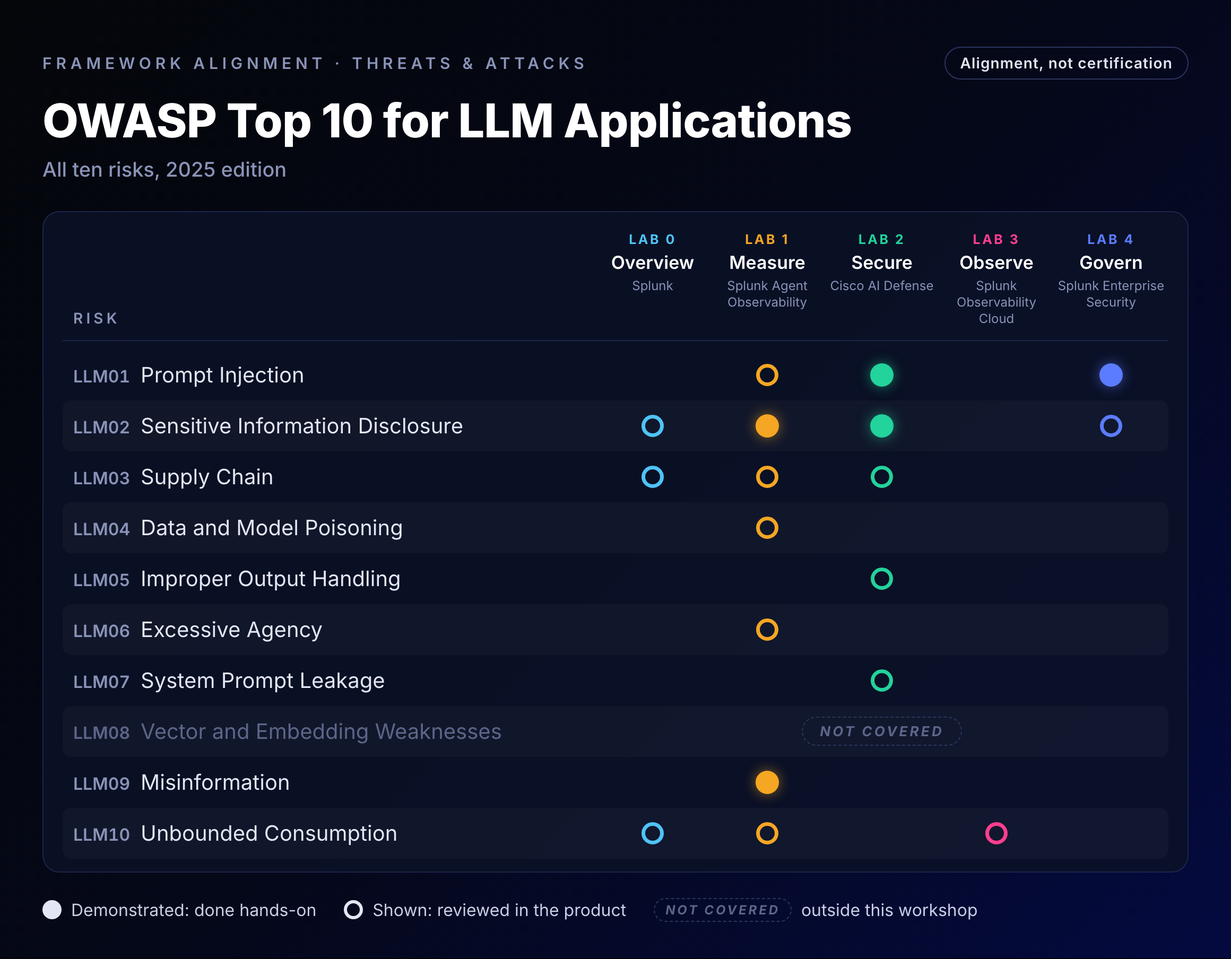
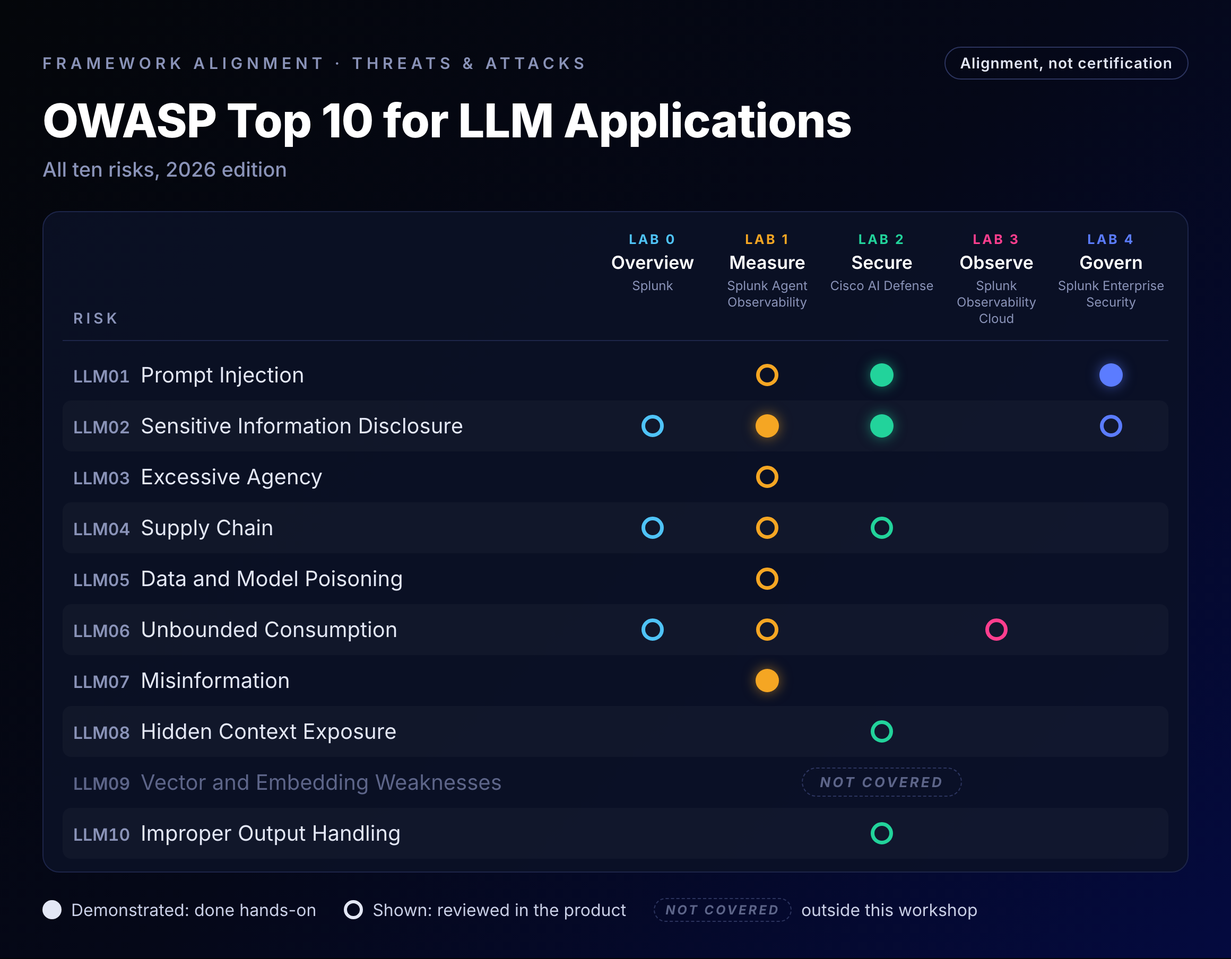
Framework Alignment: move OWASP rows to the LLM Top 10 2026 edition
OWASP published the 2026 edition of the Top 10 for LLM Applications on
2026-08-04. Both Framework Alignment pages (AI Trust and Open Weights)
were still pinned to 2025.

- Renumber, rename and reorder the OWASP rows to the 2026 list. LLM01
  and LLM02 keep their IDs; Excessive Agency is now LLM03, Supply Chain
  LLM04, Data and Model Poisoning LLM05, Unbounded Consumption LLM06,
  Misinformation LLM07, Hidden Context Exposure (was System Prompt
  Leakage) LLM08, Vector and Embedding Weaknesses LLM09 and Improper
  Output Handling LLM10. Coverage marks are unchanged.
- Rewrite the descriptions to the 2026 scope, add a note under the
  OWASP heading mapping the 2025 IDs, and update the headings, intro,
  alt text and the Not Covered IDs.
- LLM02:2026 also counts logs, telemetry and traces as disclosure
  channels: say that redacting personal data there isn't covered (the
  Lab 1.4.4 trace keeps the original answer), and list it under Not
  Covered. LLM08 and LLM06 gaps now name hidden context and spending caps.
- EU AI Act: note that Regulation (EU) 2026/1744 kept these article
  numbers and moved the high-risk rules to 2 Dec 2027 (Annex III) and
  2 Aug 2028 (Annex I).
- Re-render image-358 and image-374 from the updated matrix HTMLs.

diff --git a/content/workshops/ai-trust/08-framework-alignment.md b/content/workshops/ai-trust/08-framework-alignment.md
@@ -5,7 +5,7 @@ duration    = "Reference"
 weight      = 75
 +++
 
-Risk, compliance, and security teams measure AI trust against a small set of public frameworks. This page maps the workshop's labs to five of them: the **OWASP Top 10 for LLM Applications (2025)**, **MITRE ATLAS**, the **NIST AI Risk Management Framework (AI RMF 1.0)**, **ISO/IEC 42001**, and the **EU AI Act**. Use it to connect what you did in each lab to the controls those teams already track.
+Risk, compliance, and security teams measure AI trust against a small set of public frameworks. This page maps the workshop's labs to five of them: the **OWASP Top 10 for LLM Applications (2026)**, **MITRE ATLAS**, the **NIST AI Risk Management Framework (AI RMF 1.0)**, **ISO/IEC 42001**, and the **EU AI Act**. Use it to connect what you did in each lab to the controls those teams already track.
 
 {{% notice note %}}
 **Alignment, not certification.** The labs demonstrate controls that these frameworks call for. Completing them does not make an AI system compliant or certified. That depends on how the controls are deployed, operated, and evidenced in your own environment, and on how your AI systems are classified.
@@ -21,22 +21,24 @@ Each framework below starts with a chart of its items across the five labs, foll
 
 **Not covered:** Outside the scope of this workshop. See [Not Covered in This Workshop](#not-covered-in-this-workshop).
 
-## OWASP Top 10 for LLM Applications (2025)
+## OWASP Top 10 for LLM Applications (2026)
 
-![OWASP Top 10 for LLM Applications coverage by lab. Demonstrated: LLM01 Prompt Injection, LLM02 Sensitive Information Disclosure, and LLM09 Misinformation. Shown: LLM03 Supply Chain, LLM04 Data and Model Poisoning, LLM05 Improper Output Handling, LLM06 Excessive Agency, LLM07 System Prompt Leakage, and LLM10 Unbounded Consumption. Not covered: LLM08 Vector and Embedding Weaknesses. The table below lists the labs for each risk.](/images/image-358.png)
+Risk IDs and names are from the 2026 edition, published in August 2026. LLM01 and LLM02 kept their IDs; in the 2025 edition, Excessive Agency was LLM06, Supply Chain was LLM03, Data and Model Poisoning was LLM04, Unbounded Consumption was LLM10, Misinformation was LLM09, Hidden Context Exposure was LLM07 System Prompt Leakage, Vector and Embedding Weaknesses was LLM08, and Improper Output Handling was LLM05.
+
+![OWASP Top 10 for LLM Applications (2026) coverage by lab. Demonstrated: LLM01 Prompt Injection, LLM02 Sensitive Information Disclosure, and LLM07 Misinformation. Shown: LLM03 Excessive Agency, LLM04 Supply Chain, LLM05 Data and Model Poisoning, LLM06 Unbounded Consumption, LLM08 Hidden Context Exposure, and LLM10 Improper Output Handling. Not covered: LLM09 Vector and Embedding Weaknesses. The table below lists the labs for each risk.](/images/image-358.png)
 
 | **Risk** | **Description** | **Coverage** | **Where you see it** |
 | --- | --- | --- | --- |
-| **LLM01:2025** Prompt Injection | Crafted input, typed directly or hidden in content the model reads, changes the model's behavior or overrides its instructions. | Demonstrated | Sent as a structured JSON request with policy review off, a prompt injection gets the model to read personal data back ([Lab 2.1.3](/workshops/ai-trust/04-lab-2-secure/#213-prompt-a-data-exfiltration-attack)). With policy review on, Cisco AI Defense blocks the same prompt before the model reads it ([Lab 2.3.1](/workshops/ai-trust/04-lab-2-secure/#231-send-the-attack-with-policy-review-on)). A spray of injection attempts is detected and becomes a finding in Enterprise Security ([Lab 4.2.2](/workshops/ai-trust/06-lab-4-govern/#422-review-the-prompt-injection-spray), [Lab 4.3.1](/workshops/ai-trust/06-lab-4-govern/#431-investigate-with-the-triage-agent)). You also send a first injection attempt in [Lab 1.1.3](/workshops/ai-trust/03-lab-1-measure/#113-prompt-aberrant-behavior). |
-| **LLM02:2025** Sensitive Information Disclosure | The model reveals personal data, credentials, or confidential business information in its responses. | Demonstrated | The attack's request to read back personal data is blocked ([Lab 2.3.1](/workshops/ai-trust/04-lab-2-secure/#231-send-the-attack-with-policy-review-on)). With the PII toggle on, the assistant's answer carries a record line with personal data ([Lab 1.4.1](/workshops/ai-trust/03-lab-1-measure/#141-prompt-pseudoco-assistant-to-leak-pii)), and with Agent Observability Controls on, a control with a Steer action removes it before the answer is delivered ([Lab 1.4.4](/workshops/ai-trust/03-lab-1-measure/#144-see-the-pii-removed-from-the-response)). PII Signals and output PII scoring flag responses that expose personal data ([Lab 1.2.3](/workshops/ai-trust/03-lab-1-measure/#123-review-signals), [Lab 1.2.4](/workshops/ai-trust/03-lab-1-measure/#124-review-agent-stream)), and PII detections roll up on the Overview dashboard ([Lab 0.1.3](/workshops/ai-trust/02-overview/#013-review-ai-governance-overview-dashboard)). The Lab 4 finding counts PII exposure events without copying the prompt text into the finding ([Lab 4.1.3](/workshops/ai-trust/06-lab-4-govern/#413-review-the-detection-builder-agent)). |
-| **LLM03:2025** Supply Chain | Third-party models, datasets, and components are tampered with, outdated, or of unknown origin. | Shown | A tampered copy of the open-weight model is caught by comparing it with the baseline ([Lab 1.1.2](/workshops/ai-trust/03-lab-1-measure/#112-explore-the-baseline-vs-the-poisoned-model), [Lab 1.2.4](/workshops/ai-trust/03-lab-1-measure/#124-review-agent-stream)). The AI asset inventory in Cisco AI Defense ([Lab 2.2.2](/workshops/ai-trust/04-lab-2-secure/#222-review-dashboard)) and model usage on the Overview dashboard ([Lab 0.1.3](/workshops/ai-trust/02-overview/#013-review-ai-governance-overview-dashboard)) show which models and AI applications are in use. Provenance, signing and hash checks, and model scanning aren't covered. |
-| **LLM04:2025** Data and Model Poisoning | Pre-training, fine-tuning, or embedding data is manipulated to plant backdoors, biases, or harmful behavior. | Shown | A tampered copy of the model is compared with the baseline. A hidden directive was added to its prompt template; its weights and training data are unchanged ([Lab 1.1.2](/workshops/ai-trust/03-lab-1-measure/#112-explore-the-baseline-vs-the-poisoned-model)). Evaluators score its responses ([Lab 1.2.4](/workshops/ai-trust/03-lab-1-measure/#124-review-agent-stream)), and an experiment ranks it below the baseline ([Lab 1.2.2](/workshops/ai-trust/03-lab-1-measure/#122-review-overview)). Poisoning of training, fine-tuning, or embedding data isn't simulated. |
-| **LLM05:2025** Improper Output Handling | Model output reaches downstream systems without validation, enabling attacks such as cross-site scripting, SQL injection, or code execution. | Shown | The runtime policy inspects responses as well as prompts ([Lab 2.2.6](/workshops/ai-trust/04-lab-2-secure/#226-review-the-runtime-policy)). Validating output before a downstream system acts on it isn't covered. |
-| **LLM06:2025** Excessive Agency | An LLM-based system with too much functionality, permission, or autonomy takes damaging actions through its tools. | Shown | Your industry's Outside of Authority evaluator flags responses in which the assistant oversteps its authority ([Lab 1.1.3](/workshops/ai-trust/03-lab-1-measure/#113-prompt-aberrant-behavior), [Lab 1.3.2](/workshops/ai-trust/03-lab-1-measure/#132-review-a-custom-evaluator)), and the Agent Graph shows how the agents coordinate ([Lab 1.2.6](/workshops/ai-trust/03-lab-1-measure/#126-review-agent-graph)). Tool permission scoping and approval steps aren't covered. |
-| **LLM07:2025** System Prompt Leakage | The system prompt holds secrets, rules, or logic that an attacker can extract and misuse. | Shown | Attempts to extract the system prompt or configuration are among the patterns the Prompt Injection - Master profile flags ([Lab 2.2.4](/workshops/ai-trust/04-lab-2-secure/#224-review-how-the-guardrail-was-written), [Lab 2.2.5](/workshops/ai-trust/04-lab-2-secure/#225-review-the-policy-details)). Keeping secrets and authorization logic out of system prompts isn't covered. |
-| **LLM08:2025** Vector and Embedding Weaknesses | Weaknesses in how embeddings are generated, stored, or retrieved let attackers inject content or reach data they shouldn't. | Not covered | — |
-| **LLM09:2025** Misinformation | The model produces false or misleading content that sounds credible, such as hallucinated facts or sources. | Demonstrated | Hallucinated content is triggered, scored by evaluators, and surfaced as Signals ([Lab 1.1.3](/workshops/ai-trust/03-lab-1-measure/#113-prompt-aberrant-behavior), [Lab 1.2.3](/workshops/ai-trust/03-lab-1-measure/#123-review-signals), [Lab 1.3.1](/workshops/ai-trust/03-lab-1-measure/#131-review-evaluators)). |
-| **LLM10:2025** Unbounded Consumption | Uncontrolled use of the model drives up cost, degrades the service, or enables model extraction. | Shown | Token usage and estimated cost are tracked ([Lab 0.1.3](/workshops/ai-trust/02-overview/#013-review-ai-governance-overview-dashboard), [Lab 1.2.5](/workshops/ai-trust/03-lab-1-measure/#125-review-trends)), and alerts can be set on cost or evaluator thresholds ([Lab 1.2.7](/workshops/ai-trust/03-lab-1-measure/#127-review-alerts)). A synthetic latency and error fault raises an alert that you triage ([Lab 3.1.4](/workshops/ai-trust/05-lab-3-observe/#314-triage-and-resolve-an-alert)). Token quotas and rate limits aren't covered. |
+| **LLM01:2026** Prompt Injection | Crafted input, typed directly or hidden in content the model reads, such as documents, tool output, images, or audio, changes the model's behavior or overrides its instructions. | Demonstrated | Sent as a structured JSON request with policy review off, a prompt injection gets the model to read personal data back ([Lab 2.1.3](/workshops/ai-trust/04-lab-2-secure/#213-prompt-a-data-exfiltration-attack)). With policy review on, Cisco AI Defense blocks the same prompt before the model reads it ([Lab 2.3.1](/workshops/ai-trust/04-lab-2-secure/#231-send-the-attack-with-policy-review-on)). A spray of injection attempts is detected and becomes a finding in Enterprise Security ([Lab 4.2.2](/workshops/ai-trust/06-lab-4-govern/#422-review-the-prompt-injection-spray), [Lab 4.3.1](/workshops/ai-trust/06-lab-4-govern/#431-investigate-with-the-triage-agent)). You also send a first injection attempt in [Lab 1.1.3](/workshops/ai-trust/03-lab-1-measure/#113-prompt-aberrant-behavior). |
+| **LLM02:2026** Sensitive Information Disclosure | The system exposes personal data, credentials, or confidential business information in its responses or through other channels, such as logs, telemetry, reasoning traces, and tool-call arguments. | Demonstrated | The attack's request to read back personal data is blocked ([Lab 2.3.1](/workshops/ai-trust/04-lab-2-secure/#231-send-the-attack-with-policy-review-on)). With the PII toggle on, the assistant's answer carries a record line with personal data ([Lab 1.4.1](/workshops/ai-trust/03-lab-1-measure/#141-prompt-pseudoco-assistant-to-leak-pii)), and with Agent Observability Controls on, a control with a Steer action removes it before the answer is delivered ([Lab 1.4.4](/workshops/ai-trust/03-lab-1-measure/#144-see-the-pii-removed-from-the-response)). PII Signals and output PII scoring flag responses that expose personal data ([Lab 1.2.3](/workshops/ai-trust/03-lab-1-measure/#123-review-signals), [Lab 1.2.4](/workshops/ai-trust/03-lab-1-measure/#124-review-agent-stream)), and PII detections roll up on the Overview dashboard ([Lab 0.1.3](/workshops/ai-trust/02-overview/#013-review-ai-governance-overview-dashboard)). The Lab 4 finding counts PII exposure events without copying the prompt text into the finding ([Lab 4.1.3](/workshops/ai-trust/06-lab-4-govern/#413-review-the-detection-builder-agent)). The 2026 edition also counts logs, telemetry, and traces as disclosure channels. Redacting personal data from them isn't covered: the trace keeps the agent's original answer for audit ([Lab 1.4.4](/workshops/ai-trust/03-lab-1-measure/#144-see-the-pii-removed-from-the-response)). |
+| **LLM03:2026** Excessive Agency | An LLM-based system with too much functionality, permission, or autonomy takes damaging actions through its tools. | Shown | Your industry's Outside of Authority evaluator flags responses in which the assistant oversteps its authority ([Lab 1.1.3](/workshops/ai-trust/03-lab-1-measure/#113-prompt-aberrant-behavior), [Lab 1.3.2](/workshops/ai-trust/03-lab-1-measure/#132-review-a-custom-evaluator)), and the Agent Graph shows how the agents coordinate ([Lab 1.2.6](/workshops/ai-trust/03-lab-1-measure/#126-review-agent-graph)). Tool permission scoping and approval steps aren't covered. |
+| **LLM04:2026** Supply Chain | Third-party models, adapters, datasets, and other components are tampered with, swapped, outdated, or of unknown origin. | Shown | A tampered copy of the open-weight model is caught by comparing it with the baseline ([Lab 1.1.2](/workshops/ai-trust/03-lab-1-measure/#112-explore-the-baseline-vs-the-poisoned-model), [Lab 1.2.4](/workshops/ai-trust/03-lab-1-measure/#124-review-agent-stream)). The AI asset inventory in Cisco AI Defense ([Lab 2.2.2](/workshops/ai-trust/04-lab-2-secure/#222-review-dashboard)) and model usage on the Overview dashboard ([Lab 0.1.3](/workshops/ai-trust/02-overview/#013-review-ai-governance-overview-dashboard)) show which models and AI applications are in use. Provenance, signing and hash checks, and model scanning aren't covered. |
+| **LLM05:2026** Data and Model Poisoning | Data or model artifacts, from training, fine-tuning, and embedding data to adapters and chat templates, are manipulated to plant backdoors, biases, or harmful behavior. | Shown | A tampered copy of the model is compared with the baseline. A hidden directive was added to its prompt template; its weights and training data are unchanged ([Lab 1.1.2](/workshops/ai-trust/03-lab-1-measure/#112-explore-the-baseline-vs-the-poisoned-model)). Evaluators score its responses ([Lab 1.2.4](/workshops/ai-trust/03-lab-1-measure/#124-review-agent-stream)), and an experiment ranks it below the baseline ([Lab 1.2.2](/workshops/ai-trust/03-lab-1-measure/#122-review-overview)). Poisoning of training, fine-tuning, or embedding data isn't simulated. |
+| **LLM06:2026** Unbounded Consumption | Uncontrolled use of the model drives up cost, degrades the service, or enables model extraction. | Shown | Token usage and estimated cost are tracked ([Lab 0.1.3](/workshops/ai-trust/02-overview/#013-review-ai-governance-overview-dashboard), [Lab 1.2.5](/workshops/ai-trust/03-lab-1-measure/#125-review-trends)), and alerts can be set on cost or evaluator thresholds ([Lab 1.2.7](/workshops/ai-trust/03-lab-1-measure/#127-review-alerts)). A synthetic latency and error fault raises an alert that you triage ([Lab 3.1.4](/workshops/ai-trust/05-lab-3-observe/#314-triage-and-resolve-an-alert)). Token quotas, spending caps, and rate limits aren't covered. |
+| **LLM07:2026** Misinformation | The model produces false or misleading content, such as hallucinated facts or sources, that sounds credible enough for a person, workflow, or agent to act on. | Demonstrated | Hallucinated content is triggered, scored by evaluators, and surfaced as Signals ([Lab 1.1.3](/workshops/ai-trust/03-lab-1-measure/#113-prompt-aberrant-behavior), [Lab 1.2.3](/workshops/ai-trust/03-lab-1-measure/#123-review-signals), [Lab 1.3.1](/workshops/ai-trust/03-lab-1-measure/#131-review-evaluators)). |
+| **LLM08:2026** Hidden Context Exposure | Hidden context the model reads, such as its system prompt, developer instructions, or tool schemas, is extracted or inferred, revealing secrets, rules, or logic an attacker can misuse. | Shown | Attempts to extract the system prompt or configuration are among the patterns the Prompt Injection - Master profile flags ([Lab 2.2.4](/workshops/ai-trust/04-lab-2-secure/#224-review-how-the-guardrail-was-written), [Lab 2.2.5](/workshops/ai-trust/04-lab-2-secure/#225-review-the-policy-details)). Keeping secrets and authorization logic out of the system prompt and other hidden context, such as tool schemas, isn't covered. |
+| **LLM09:2026** Vector and Embedding Weaknesses | Weaknesses in how embeddings are generated, stored, or retrieved, as in RAG, agent memory, or semantic caches, let attackers inject content or reach data they shouldn't. | Not covered | — |
+| **LLM10:2026** Improper Output Handling | Model output, including generated code, reaches downstream systems without validation, enabling attacks such as cross-site scripting, SQL injection, or code execution. | Shown | The runtime policy inspects responses as well as prompts ([Lab 2.2.6](/workshops/ai-trust/04-lab-2-secure/#226-review-the-runtime-policy)). Validating output before a downstream system acts on it isn't covered. |
 
 ## MITRE ATLAS
 
@@ -86,6 +88,8 @@ Control titles refer to Annex A of ISO/IEC 42001:2023. See the standard for the 
 
 The Act's obligations depend on how an AI system is classified. The articles below apply to high-risk AI systems, except Art. 50, which applies more broadly.
 
+Article numbers are from Regulation (EU) 2024/1689. Regulation (EU) 2026/1744, the Digital Omnibus on AI, amended it in July 2026 without renumbering these articles, and moved the high-risk classification rules, requirements, and obligations (Art. 6 to Art. 27) to 2 December 2027 for systems listed in Annex III and 2 August 2028 for those covered by Annex I.
+
 ![EU AI Act coverage by lab. Demonstrated: Art. 12 record-keeping and Art. 15 accuracy, robustness and cybersecurity. Shown: Art. 9 risk management system, Art. 14 human oversight, Art. 72 post-market monitoring, and Art. 73 reporting of serious incidents. Not covered: Art. 6 high-risk classification, Art. 10 data and data governance, Art. 27 fundamental rights impact assessment, and Art. 50 transparency obligations. The table below lists the labs for each article.](/images/image-362.png)
 
 | **Article** | **Description** | **Coverage** | **Where you see it** |
@@ -105,15 +109,17 @@ The Act's obligations depend on how an AI system is classified. The articles bel
 
 These areas sit outside the labs' scope. Address them through your broader AI governance program.
 
-**Model provenance and integrity:** Provenance, signing and hash checks, and scanning for models and libraries (OWASP LLM03).
+**Model provenance and integrity:** Provenance, signing and hash checks, and scanning for models and libraries (OWASP LLM04).
 
-**Retrieval and vector stores:** Access control and isolation for embeddings and retrieval data (OWASP LLM08).
+**Retrieval and vector stores:** Access control and isolation for embeddings and retrieval data (OWASP LLM09).
 
-**Downstream output validation:** Checking generated code, queries, or tool payloads before another system runs them (OWASP LLM05).
+**Downstream output validation:** Checking generated code, queries, or tool payloads before another system runs them (OWASP LLM10).
 
-**Agent permissions:** Least-privilege tool scopes and human approval for high-impact agent actions (OWASP LLM06).
+**Agent permissions:** Least-privilege tool scopes and human approval for high-impact agent actions (OWASP LLM03).
 
-**Consumption limits:** Token quotas and rate limits (OWASP LLM10).
+**Consumption limits:** Token quotas, spending caps, and rate limits (OWASP LLM06).
+
+**Sensitive data in telemetry:** Redacting personal data from logs, telemetry, and traces (OWASP LLM02).
 
 **Impact assessment and classification:** AI system impact assessments (ISO/IEC 42001 A.5), fundamental rights impact assessments (EU AI Act Art. 27), and high-risk classification (EU AI Act Art. 6).
 

diff --git a/content/workshops/ai-trust-open-weights/08-framework-alignment.md b/content/workshops/ai-trust-open-weights/08-framework-alignment.md
@@ -5,7 +5,7 @@ duration    = "Reference"
 weight      = 75
 +++
 
-Risk, compliance, and security teams measure AI trust against a small set of public frameworks. This page maps the workshop's two labs to five of them: the **OWASP Top 10 for LLM Applications (2025)**, **MITRE ATLAS**, the **NIST AI Risk Management Framework (AI RMF 1.0)**, **ISO/IEC 42001**, and the **EU AI Act**. Use it to connect what you did in each lab to the controls those teams already track.
+Risk, compliance, and security teams measure AI trust against a small set of public frameworks. This page maps the workshop's two labs to five of them: the **OWASP Top 10 for LLM Applications (2026)**, **MITRE ATLAS**, the **NIST AI Risk Management Framework (AI RMF 1.0)**, **ISO/IEC 42001**, and the **EU AI Act**. Use it to connect what you did in each lab to the controls those teams already track.
 
 {{% notice note %}}
 **Alignment, not certification.** The labs demonstrate controls that these frameworks call for. Completing them does not make an AI system compliant or certified. That depends on how the controls are deployed, operated, and evidenced in your own environment, and on how your AI systems are classified.
@@ -21,22 +21,24 @@ Each framework below starts with a chart of its items across the two labs, follo
 
 **Not covered:** Outside the scope of this workshop. See [Not Covered in This Workshop](#not-covered-in-this-workshop).
 
-## OWASP Top 10 for LLM Applications (2025)
+## OWASP Top 10 for LLM Applications (2026)
 
-![OWASP Top 10 for LLM Applications coverage by lab. Demonstrated: LLM01 Prompt Injection and LLM02 Sensitive Information Disclosure. Shown: LLM03 Supply Chain, LLM05 Improper Output Handling, LLM06 Excessive Agency, LLM07 System Prompt Leakage, LLM09 Misinformation, and LLM10 Unbounded Consumption. Not covered: LLM04 Data and Model Poisoning and LLM08 Vector and Embedding Weaknesses. The table below lists the labs for each risk.](/images/image-374.png)
+Risk IDs and names are from the 2026 edition, published in August 2026. LLM01 and LLM02 kept their IDs; in the 2025 edition, Excessive Agency was LLM06, Supply Chain was LLM03, Data and Model Poisoning was LLM04, Unbounded Consumption was LLM10, Misinformation was LLM09, Hidden Context Exposure was LLM07 System Prompt Leakage, Vector and Embedding Weaknesses was LLM08, and Improper Output Handling was LLM05.
+
+![OWASP Top 10 for LLM Applications (2026) coverage by lab. Demonstrated: LLM01 Prompt Injection and LLM02 Sensitive Information Disclosure. Shown: LLM03 Excessive Agency, LLM04 Supply Chain, LLM06 Unbounded Consumption, LLM07 Misinformation, LLM08 Hidden Context Exposure, and LLM10 Improper Output Handling. Not covered: LLM05 Data and Model Poisoning and LLM09 Vector and Embedding Weaknesses. The table below lists the labs for each risk.](/images/image-374.png)
 
 | **Risk** | **Description** | **Coverage** | **Where you see it** |
 | --- | --- | --- | --- |
-| **LLM01:2025** Prompt Injection | Crafted input, typed directly or hidden in content the model reads, changes the model's behavior or overrides its instructions. | Demonstrated | Sent as a structured JSON request with policy review off, a prompt injection gets the model to read sensitive data back ([Lab 2.1.2](/workshops/ai-trust-open-weights/04-lab-2-secure/#212-prompt-a-data-exfiltration-attack)). With policy review on, Agent Security blocks the same prompt before the model reads it ([Lab 2.3.2](/workshops/ai-trust-open-weights/04-lab-2-secure/#232-send-the-attack-again)), and the block event names the Prompt Injection rule ([Lab 2.3.3](/workshops/ai-trust-open-weights/04-lab-2-secure/#233-review-the-event-in-agent-security)). You also send a first injection attempt in [Lab 1.1.3](/workshops/ai-trust-open-weights/03-lab-1-measure/#113-prompt-aberrant-behavior). |
-| **LLM02:2025** Sensitive Information Disclosure | The model reveals personal data, credentials, or confidential business information in its responses. | Demonstrated | You send PII in a prompt and turn on synthetic PII in responses ([Lab 1.1.3](/workshops/ai-trust-open-weights/03-lab-1-measure/#113-prompt-aberrant-behavior)); Signals surface the sensitive PII, and Output PII scores the responses that expose it ([Lab 1.2.4](/workshops/ai-trust-open-weights/03-lab-1-measure/#124-review-signals), [Lab 1.2.5](/workshops/ai-trust-open-weights/03-lab-1-measure/#125-review-agent-stream)). In Lab 2, the attack's request to read back personal data succeeds with policy review off and is blocked with it on ([Lab 2.1.2](/workshops/ai-trust-open-weights/04-lab-2-secure/#212-prompt-a-data-exfiltration-attack), [Lab 2.3.2](/workshops/ai-trust-open-weights/04-lab-2-secure/#232-send-the-attack-again)). |
-| **LLM03:2025** Supply Chain | Third-party models, datasets, and components are tampered with, outdated, or of unknown origin. | Shown | The Agent Security dashboard inventories the AI agents, MCP servers, models, and agent skills in the environment, with security findings for the MCP servers ([Lab 2.2.2](/workshops/ai-trust-open-weights/04-lab-2-secure/#222-review-dashboard)). Provenance, signing and hash checks, and model scanning aren't covered. |
-| **LLM04:2025** Data and Model Poisoning | Pre-training, fine-tuning, or embedding data is manipulated to plant backdoors, biases, or harmful behavior. | Not covered | — |
-| **LLM05:2025** Improper Output Handling | Model output reaches downstream systems without validation, enabling attacks such as cross-site scripting, SQL injection, or code execution. | Shown | The runtime policy's guardrails inspect responses as well as prompts ([Lab 2.2.3](/workshops/ai-trust-open-weights/04-lab-2-secure/#223-review-the-prompt-injection-guardrail)). Validating output before a downstream system acts on it isn't covered. |
-| **LLM06:2025** Excessive Agency | An LLM-based system with too much functionality, permission, or autonomy takes damaging actions through its tools. | Shown | Your industry's Outside of Authority evaluator flags responses in which the assistant oversteps its authority ([Lab 1.1.3](/workshops/ai-trust-open-weights/03-lab-1-measure/#113-prompt-aberrant-behavior), [Lab 1.3.2](/workshops/ai-trust-open-weights/03-lab-1-measure/#132-review-a-custom-evaluator)), and the trace tree shows which agents handled each turn ([Lab 1.2.5](/workshops/ai-trust-open-weights/03-lab-1-measure/#125-review-agent-stream)). Tool permission scoping and approval steps aren't covered. |
-| **LLM07:2025** System Prompt Leakage | The system prompt holds secrets, rules, or logic that an attacker can extract and misuse. | Shown | The prompt injection you send asks the assistant to reveal its full system prompt ([Lab 1.1.3](/workshops/ai-trust-open-weights/03-lab-1-measure/#113-prompt-aberrant-behavior)), and its trace shows exactly what was asked and answered ([Lab 1.2.5](/workshops/ai-trust-open-weights/03-lab-1-measure/#125-review-agent-stream)). The lab doesn't show a control acting on the extraction attempt, and keeping secrets and authorization logic out of system prompts isn't covered. |
-| **LLM08:2025** Vector and Embedding Weaknesses | Weaknesses in how embeddings are generated, stored, or retrieved let attackers inject content or reach data they shouldn't. | Not covered | — |
-| **LLM09:2025** Misinformation | The model produces false or misleading content that sounds credible, such as hallucinated facts or sources. | Shown | Evaluators such as context adherence score every turn, and their trends appear on the Overview ([Lab 1.2.3](/workshops/ai-trust-open-weights/03-lab-1-measure/#123-review-agent-observability-overview)); the evaluator catalog holds the reusable checks ([Lab 1.3.1](/workshops/ai-trust-open-weights/03-lab-1-measure/#131-review-evaluators)). The labs don't trigger a hallucination. |
-| **LLM10:2025** Unbounded Consumption | Uncontrolled use of the model drives up cost, degrades the service, or enables model extraction. | Shown | Token usage and estimated agent cost are tracked ([Lab 1.2.3](/workshops/ai-trust-open-weights/03-lab-1-measure/#123-review-agent-observability-overview), [Lab 1.2.6](/workshops/ai-trust-open-weights/03-lab-1-measure/#126-review-trends)), and the Beyond Tokens panel shows how to measure what the same tokens cost in GPU power and hardware on your own AI Factory ([Lab 1.2.6](/workshops/ai-trust-open-weights/03-lab-1-measure/#126-review-trends)). Token quotas and rate limits aren't covered. |
+| **LLM01:2026** Prompt Injection | Crafted input, typed directly or hidden in content the model reads, such as documents, tool output, images, or audio, changes the model's behavior or overrides its instructions. | Demonstrated | Sent as a structured JSON request with policy review off, a prompt injection gets the model to read sensitive data back ([Lab 2.1.2](/workshops/ai-trust-open-weights/04-lab-2-secure/#212-prompt-a-data-exfiltration-attack)). With policy review on, Agent Security blocks the same prompt before the model reads it ([Lab 2.3.2](/workshops/ai-trust-open-weights/04-lab-2-secure/#232-send-the-attack-again)), and the block event names the Prompt Injection rule ([Lab 2.3.3](/workshops/ai-trust-open-weights/04-lab-2-secure/#233-review-the-event-in-agent-security)). You also send a first injection attempt in [Lab 1.1.3](/workshops/ai-trust-open-weights/03-lab-1-measure/#113-prompt-aberrant-behavior). |
+| **LLM02:2026** Sensitive Information Disclosure | The system exposes personal data, credentials, or confidential business information in its responses or through other channels, such as logs, telemetry, reasoning traces, and tool-call arguments. | Demonstrated | You send PII in a prompt and turn on synthetic PII in responses ([Lab 1.1.3](/workshops/ai-trust-open-weights/03-lab-1-measure/#113-prompt-aberrant-behavior)); Signals surface the sensitive PII, and Output PII scores the responses that expose it ([Lab 1.2.4](/workshops/ai-trust-open-weights/03-lab-1-measure/#124-review-signals), [Lab 1.2.5](/workshops/ai-trust-open-weights/03-lab-1-measure/#125-review-agent-stream)). In Lab 2, the attack's request to read back personal data succeeds with policy review off and is blocked with it on ([Lab 2.1.2](/workshops/ai-trust-open-weights/04-lab-2-secure/#212-prompt-a-data-exfiltration-attack), [Lab 2.3.2](/workshops/ai-trust-open-weights/04-lab-2-secure/#232-send-the-attack-again)). The 2026 edition also counts logs, telemetry, and traces as disclosure channels; redacting personal data from them isn't covered. |
+| **LLM03:2026** Excessive Agency | An LLM-based system with too much functionality, permission, or autonomy takes damaging actions through its tools. | Shown | Your industry's Outside of Authority evaluator flags responses in which the assistant oversteps its authority ([Lab 1.1.3](/workshops/ai-trust-open-weights/03-lab-1-measure/#113-prompt-aberrant-behavior), [Lab 1.3.2](/workshops/ai-trust-open-weights/03-lab-1-measure/#132-review-a-custom-evaluator)), and the trace tree shows which agents handled each turn ([Lab 1.2.5](/workshops/ai-trust-open-weights/03-lab-1-measure/#125-review-agent-stream)). Tool permission scoping and approval steps aren't covered. |
+| **LLM04:2026** Supply Chain | Third-party models, adapters, datasets, and other components are tampered with, swapped, outdated, or of unknown origin. | Shown | The Agent Security dashboard inventories the AI agents, MCP servers, models, and agent skills in the environment, with security findings for the MCP servers ([Lab 2.2.2](/workshops/ai-trust-open-weights/04-lab-2-secure/#222-review-dashboard)). Provenance, signing and hash checks, and model scanning aren't covered. |
+| **LLM05:2026** Data and Model Poisoning | Data or model artifacts, from training, fine-tuning, and embedding data to adapters and chat templates, are manipulated to plant backdoors, biases, or harmful behavior. | Not covered | — |
+| **LLM06:2026** Unbounded Consumption | Uncontrolled use of the model drives up cost, degrades the service, or enables model extraction. | Shown | Token usage and estimated agent cost are tracked ([Lab 1.2.3](/workshops/ai-trust-open-weights/03-lab-1-measure/#123-review-agent-observability-overview), [Lab 1.2.6](/workshops/ai-trust-open-weights/03-lab-1-measure/#126-review-trends)), and the Beyond Tokens panel shows how to measure what the same tokens cost in GPU power and hardware on your own AI Factory ([Lab 1.2.6](/workshops/ai-trust-open-weights/03-lab-1-measure/#126-review-trends)). Token quotas, spending caps, and rate limits aren't covered. |
+| **LLM07:2026** Misinformation | The model produces false or misleading content, such as hallucinated facts or sources, that sounds credible enough for a person, workflow, or agent to act on. | Shown | Evaluators such as context adherence score every turn, and their trends appear on the Overview ([Lab 1.2.3](/workshops/ai-trust-open-weights/03-lab-1-measure/#123-review-agent-observability-overview)); the evaluator catalog holds the reusable checks ([Lab 1.3.1](/workshops/ai-trust-open-weights/03-lab-1-measure/#131-review-evaluators)). The labs don't trigger a hallucination. |
+| **LLM08:2026** Hidden Context Exposure | Hidden context the model reads, such as its system prompt, developer instructions, or tool schemas, is extracted or inferred, revealing secrets, rules, or logic an attacker can misuse. | Shown | The prompt injection you send asks the assistant to reveal its full system prompt ([Lab 1.1.3](/workshops/ai-trust-open-weights/03-lab-1-measure/#113-prompt-aberrant-behavior)), and its trace shows exactly what was asked and answered ([Lab 1.2.5](/workshops/ai-trust-open-weights/03-lab-1-measure/#125-review-agent-stream)). The lab doesn't show a control acting on the extraction attempt, and keeping secrets and authorization logic out of the system prompt and other hidden context, such as tool schemas, isn't covered. |
+| **LLM09:2026** Vector and Embedding Weaknesses | Weaknesses in how embeddings are generated, stored, or retrieved, as in RAG, agent memory, or semantic caches, let attackers inject content or reach data they shouldn't. | Not covered | — |
+| **LLM10:2026** Improper Output Handling | Model output, including generated code, reaches downstream systems without validation, enabling attacks such as cross-site scripting, SQL injection, or code execution. | Shown | The runtime policy's guardrails inspect responses as well as prompts ([Lab 2.2.3](/workshops/ai-trust-open-weights/04-lab-2-secure/#223-review-the-prompt-injection-guardrail)). Validating output before a downstream system acts on it isn't covered. |
 
 ## MITRE ATLAS
 
@@ -84,6 +86,8 @@ Control titles refer to Annex A of ISO/IEC 42001:2023. See the standard for the 
 
 The Act's obligations depend on how an AI system is classified. The articles below apply to high-risk AI systems, except Art. 50, which applies more broadly.
 
+Article numbers are from Regulation (EU) 2024/1689. Regulation (EU) 2026/1744, the Digital Omnibus on AI, amended it in July 2026 without renumbering these articles, and moved the high-risk classification rules, requirements, and obligations (Art. 6 to Art. 27) to 2 December 2027 for systems listed in Annex III and 2 August 2028 for those covered by Annex I.
+
 ![EU AI Act coverage by lab. Demonstrated: Art. 12 record-keeping and Art. 15 accuracy, robustness and cybersecurity. Shown: Art. 9 risk management system, Art. 14 human oversight, and Art. 72 post-market monitoring. Not covered: Art. 6 high-risk classification, Art. 10 data and data governance, Art. 27 fundamental rights impact assessment, Art. 50 transparency obligations, and Art. 73 reporting of serious incidents. The table below lists the labs for each article.](/images/image-378.png)
 
 | **Article** | **Description** | **Coverage** | **Where you see it** |
@@ -103,19 +107,21 @@ The Act's obligations depend on how an AI system is classified. The articles bel
 
 These areas sit outside the labs' scope. Address them through your broader AI governance program.
 
-**Model provenance and integrity:** Provenance, signing and hash checks, and scanning for models and libraries (OWASP LLM03).
+**Model provenance and integrity:** Provenance, signing and hash checks, and scanning for models and libraries (OWASP LLM04).
 
-**Model poisoning and tampering:** Poisoned training or fine-tuning data, and tampered weights or prompt templates (OWASP LLM04, MITRE ATLAS AML.T0018).
+**Model poisoning and tampering:** Poisoned training or fine-tuning data, and tampered weights or prompt templates (OWASP LLM05, MITRE ATLAS AML.T0018).
 
 **Jailbreaks:** Prompts that talk a model out of its safety rules (MITRE ATLAS AML.T0054).
 
-**Retrieval and vector stores:** Access control and isolation for embeddings and retrieval data (OWASP LLM08).
+**Retrieval and vector stores:** Access control and isolation for embeddings and retrieval data (OWASP LLM09).
 
-**Downstream output validation:** Checking generated code, queries, or tool payloads before another system runs them (OWASP LLM05).
+**Downstream output validation:** Checking generated code, queries, or tool payloads before another system runs them (OWASP LLM10).
 
-**Agent permissions:** Least-privilege tool scopes and human approval for high-impact agent actions (OWASP LLM06).
+**Agent permissions:** Least-privilege tool scopes and human approval for high-impact agent actions (OWASP LLM03).
 
-**Consumption limits:** Token quotas and rate limits (OWASP LLM10).
+**Consumption limits:** Token quotas, spending caps, and rate limits (OWASP LLM06).
+
+**Sensitive data in telemetry:** Redacting personal data from logs, telemetry, and traces (OWASP LLM02).
 
 **Impact assessment and classification:** AI system impact assessments (ISO/IEC 42001 A.5), fundamental rights impact assessments (EU AI Act Art. 27), and high-risk classification (EU AI Act Art. 6).
 
